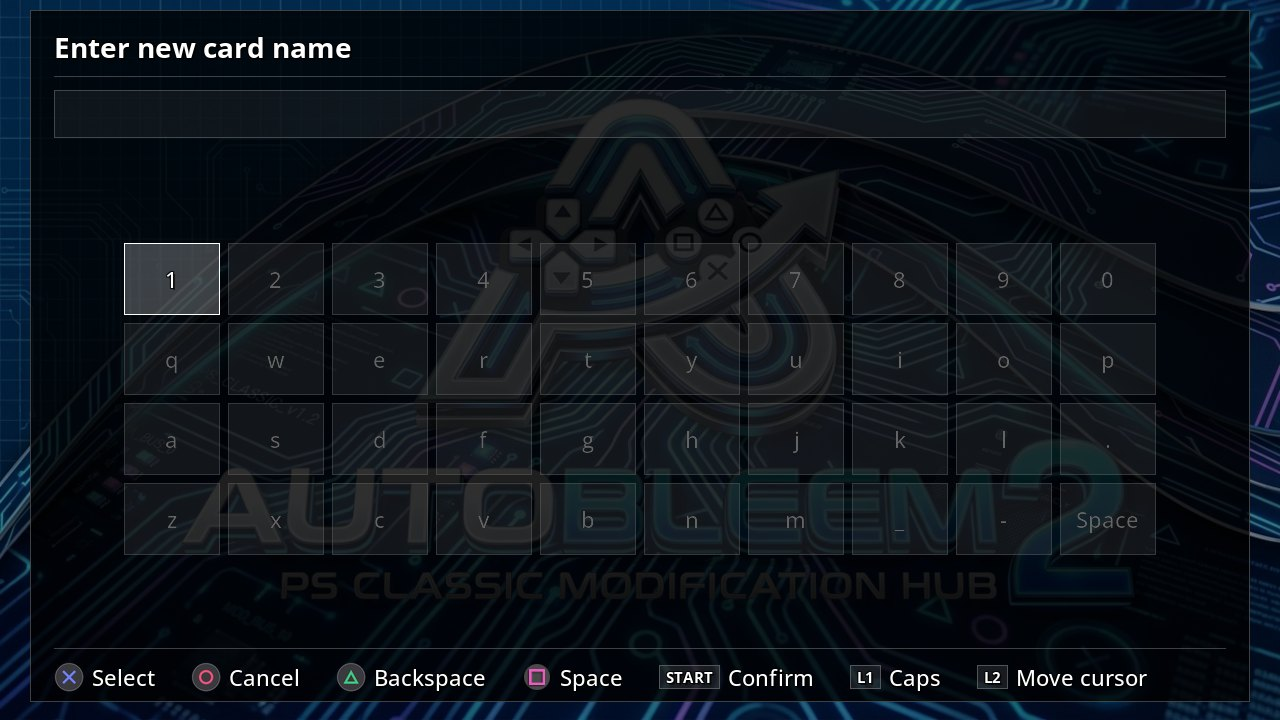
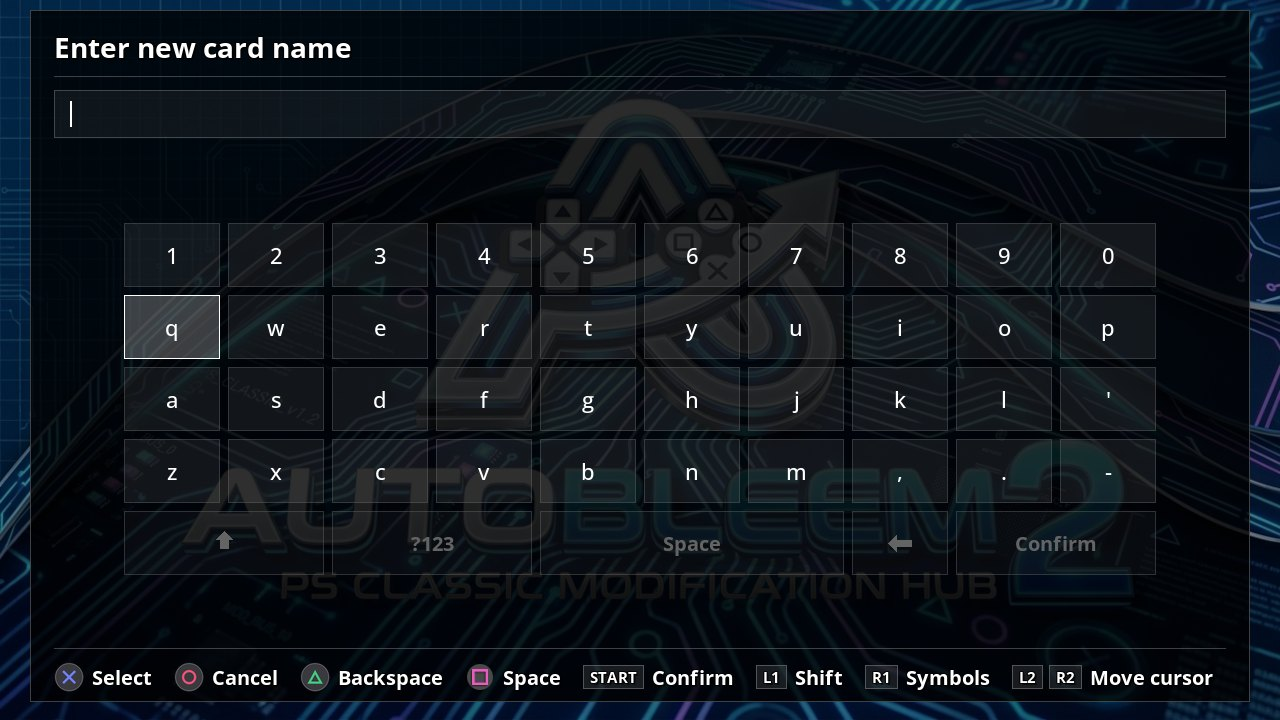
Manuals: the AutoBleem Store and extensions, the new keyboard, abstored; the shots for them
- English and Polish: section 3.12 Extensions and the AutoBleem Store (the Extensions list, the Store's four
  tabs, sources and their menu, the catalog on the site, abstored on the home network), the system menu's
  Extensions row, section 4.4's keyboard as it is now, chapter 6's PSC-Bios as the console package's
  extension.
- manual_shots.py: the Extensions list, the Store's Apps and Sources tabs and a source's menu (the published
  rpi catalog), and --only to retake some screens; new keyboard shots in both languages.
- make_usb.py stages only real extensions (an extension.ini) - not store-server, abstored's build output.

diff --git a/tools/manual_shots.py b/tools/manual_shots.py
@@ -5,6 +5,11 @@ manuals/images/<lang>/. Run after `make_win.sh` and `python tools/make_usb.py us
 
     python tools/manual_shots.py                # English and Polish
     python tools/manual_shots.py --lang English --show
+    python tools/manual_shots.py --only keyboard,store-apps   # just these screens
+
+The Store's screens need the Store built (-DAB_EXTENSION_DIRS=<ext_store>) and staged by make_usb.py; they show
+the published rpi catalog (AB_STORE_CATALOG, overridable) and the stick's own sources
+(usb/System/Extensions/store/sources.txt) as they are.
 
 The stick's config.ini (usb/Autobleem/bin/autobleem/config.ini) is switched to each language for its run and
 put back to English. The UpdateRoms and installer windows are plain Win32 programs without the driver: those
@@ -45,7 +50,15 @@ LAUNCHER = [
     ('app-start', 'press o; wait 300; press o; wait 300; press select; wait_screen GuiSetPicker; press r1; press r1; wait 300; press x; wait 900; press x; wait_screen GuiAppStart; wait 500'),
     ('launcher-apps', 'press o; wait 500'),
     ('rescan', 'menu 0; wait 700'),
+    # the Extensions list and the AutoBleem Store
+    ('extensions', 'press o; wait 300; press o; wait 300; press o; wait 1500; menu 6; wait_screen GuiExtensions; wait 400'),
+    ('store-apps', 'wait 500; press x; wait_screen GuiStore; wait 3000'),
+    ('store-sources', 'press l1; wait 1500'),
+    ('store-source-menu', 'press up; press up; press x; wait_screen GuiActionMenu; wait 400'),
 ]
+# the catalog the Store's shots show: the published one with the Apps in it
+STORE_CATALOG = 'https://autobleem.retromenele.pl/store/rpi/catalog.json'
+
 PSCBIOS = [
     ('pscbios-main', 'wait 600'),
     ('pscbios-network', 'press select; wait_screen GuiNetworkMenu; wait 400'),
@@ -77,7 +90,10 @@ def to_jpeg(png, jpg):
 
 
 def shoot(tool, screens, out_dir, show):
+    if not screens:
+        return
     start = DRIVE + ['start', '--port', PORT] + (['--show'] if show else []) + (['--tool', tool] if tool else [])
+    os.environ.setdefault('AB_STORE_CATALOG', STORE_CATALOG)
     run(start)
     try:
         for name, script in screens:
@@ -118,6 +134,11 @@ $bmp.Save("%s", [System.Drawing.Imaging.ImageFormat]::Png)
 def main(argv):
     langs = dict(LANGS)
     show = '--show' in argv
+    only = set(argv[argv.index('--only') + 1].split(',')) if '--only' in argv else None
+
+    def pick(screens):
+        return [sc for sc in screens if only is None or sc[0] in only]
+
     if '--lang' in argv:
         name = argv[argv.index('--lang') + 1]
         langs = {k: v for k, v in LANGS.items() if v == name}
@@ -126,10 +147,12 @@ def main(argv):
         os.makedirs(out_dir, exist_ok=True)
         print('== %s' % name)
         set_language(name)
-        shoot(None, LAUNCHER, out_dir, show)
-        shoot('pscbios', PSCBIOS, out_dir, show)
-        shoot('abflashkit', ABFLASHKIT, out_dir, show)
+        shoot(None, pick(LAUNCHER), out_dir, show)
+        shoot('pscbios', pick(PSCBIOS), out_dir, show)
+        shoot('abflashkit', pick(ABFLASHKIT), out_dir, show)
     set_language('English')
+    if only is not None:
+        return 0
     # the two Win32 programs, when the owner has them open
     shared = os.path.join(OUT, 'shared')
     os.makedirs(shared, exist_ok=True)

diff --git a/tools/make_usb.py b/tools/make_usb.py
@@ -284,7 +284,9 @@ def main():
     staged = os.path.join(args.build, 'extensions')
     if os.path.isdir(staged):
         for name in sorted(os.listdir(staged)):
-            replace_tree(os.path.join(staged, name), os.path.join(usb, 'Extensions', name))
+            # an extension has its extension.ini; store-server (abstored, a program of its own) is not one
+            if os.path.isfile(os.path.join(staged, name, 'extension.ini')):
+                replace_tree(os.path.join(staged, name), os.path.join(usb, 'Extensions', name))
 
     db_dir = os.path.join(usb, 'Autobleem', 'bin', 'db')
     os.makedirs(db_dir, exist_ok=True)

diff --git a/manuals/en/autobleem-user-manual.md b/manuals/en/autobleem-user-manual.md
@@ -209,6 +209,7 @@ with none opens on an empty shelf with the icon row showing Settings only.
 | Game Manager | The PS1 games as a list with their folders: delete a game, flush the covers. |
 | Hardware Information | The machine: system, CPU, storage, network, display, the pads. On a console with the AutoBleem kernel this opens PSC-Bios (chapter 6). |
 | Options | AutoBleem's settings (section 3.5). |
+| Extensions | The extensions on the stick - the AutoBleem Store and others (section 3.12). |
 | Software Update | (Raspberry Pi and PC) Check the site for a newer AutoBleem or RetroArch now. |
 | About | Credits and licence. |
 | Power Off | After a confirmation: on the console AutoBleem's standby - the stick disconnected, the light red, Power brings the launcher back (section 2.1); on a Pi or PC the machine shuts down. |
@@ -351,6 +352,44 @@ tolerate and some do not.
   games and settings stay; the launcher rescans once after an update.
 - **PlayStation Classic**: run a newer `AutoBleemInstaller.exe` over the stick (section 2.1).
 
+### 3.12 Extensions and the AutoBleem Store
+
+**Extensions** add their own screens to the launcher. They live in `Extensions/<name>/` on the stick (on a
+Raspberry Pi its data partition, on Windows the data folder); to install one, unpack its zip there.
+**L2 + R2 → Extensions** lists them: Cross runs one, Triangle turns it off or on again. An extension that
+needs the network is not started without one, and one that stopped the launcher is turned off - the list
+says so.
+
+![The Extensions list](../images/en/extensions.jpg)
+
+**The AutoBleem Store** is the first extension: Apps and games to install with one press, on every system
+AutoBleem runs on (a PlayStation Classic needs the AutoBleem kernel's WiFi). Its four tabs, L1 / R1 between
+them:
+
+- **Apps** and **Games**: what the sources offer, each with its picture, version, size and source. Cross
+  installs (or updates, or tries again), Triangle removes what the Store installed. L2 / R2 or Left / Right
+  turn pages, **Select** shows one source at a time, **Start** searches the titles.
+- **Downloads**: what is downloading, waiting, failed or installed. Downloads go on in the background, also
+  after you leave the Store; starting a game or powering off only pauses them, and a stopped download
+  resumes where it stopped. An installed game appears on the shelf after the next scan, with the Store's
+  picture as its cover.
+- **Sources**: where the lists come from - AutoBleem's own catalog, a TSV list dropped into
+  `System/Extensions/store/sources/`, and the addresses you add with **Add a source URL**. Cross on one you
+  added renames it, changes its address, switches it between `http://` and `https://`, or removes it.
+
+![The Store's Apps tab](../images/en/store-apps.jpg)
+
+![A source's menu](../images/en/store-source-menu.jpg)
+
+What AutoBleem's catalog offers is also listed on the download site, `https://autobleem.retromenele.pl/store/`.
+**You are responsible for what the sources you add contain.**
+
+**Your own games on your network**: `abstored`, the Store's LAN server, serves a folder of PS1 games to
+the Store on the same network. It runs on any Linux machine - a Raspberry Pi, a home server - and only reads
+the folder. Start it with `abstored <games folder>`, open `http://<that machine>:8124/` in a browser to see
+what it serves and any problems it found, and add `http://<that machine>:8124/store.tsv` as a source. Its
+README (`ext_store/server/` in the source) has the details.
+
 <!-- pagebreak -->
 
 ## 4. Screens
@@ -380,9 +419,12 @@ Triangle on the shelf: every button of every screen on one page.
 
 ### 4.4 The on-screen keyboard
 
-Wherever a name is typed - a new memory card set, a game's title, a WiFi password - the same keyboard:
-the directions move, Cross types, Triangle deletes, Square is a space, L1 shifts, L2 moves the cursor,
-Start confirms, Circle cancels. A USB keyboard types straight in.
+Wherever text is typed - a memory card set, a game's title, a WiFi password, a source's address - the same
+keyboard, laid out like a phone's: letters, a page of symbols (`/ \ : ? & = % @ #` and the rest an address
+or a password needs) and two pages of accented letters, with Shift, the page key, Space, Backspace and
+Confirm on the bottom row. The directions move, Cross types, Triangle deletes, Square is a space, **L1** is
+Shift (twice for caps lock), **R1** the next page, **L2 / R2** move the cursor, Start confirms, Circle
+cancels. A USB keyboard types at any time: Enter confirms, Esc cancels.
 
 ![The on-screen keyboard](../images/en/keyboard.jpg)
 
@@ -415,8 +457,10 @@ same way (`UpdateRoms.exe <drive> --target rpi`), though a Pi does it by itself 
 
 ## 6. The console tools (PlayStation Classic)
 
-Two applications in the Apps set of a PlayStation Classic stick. Both draw in the launcher's theme and
-language, and both are driven by the pad - and, in the gamepad wizard, by the console's front buttons.
+Two tools for a PlayStation Classic stick. Both draw in the launcher's theme and language, and both are
+driven by the pad - and, in the gamepad wizard, by the console's front buttons. **PSC-Bios** is an
+extension that comes with the console package: *Hardware Information* in the system menu opens it, and it
+is in the Extensions list. **ABFlashKit** is an App in the Apps set.
 
 ### 6.1 PSC-Bios
 
